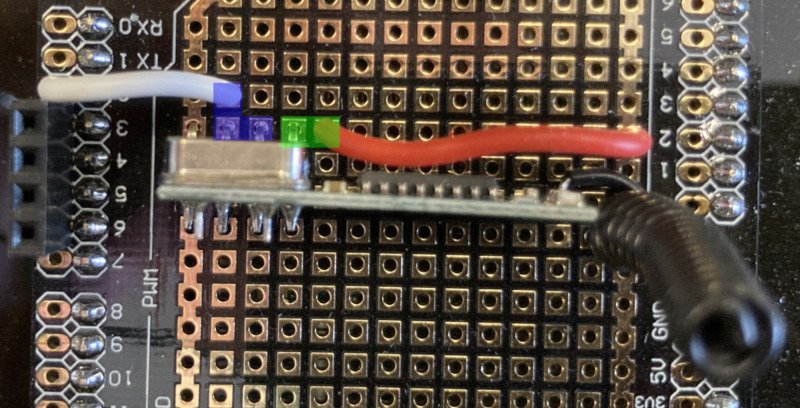
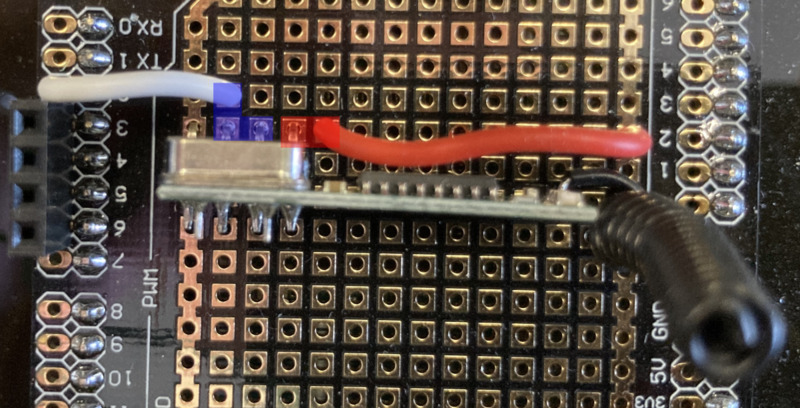
Fix some issues with description

Changed region(s): [[0.3438, 0.2647, 0.4375, 0.3824]]

diff --git a/hardware/README.md b/hardware/README.md
@@ -104,7 +104,8 @@ after the components have been installed and tested!
    2. Connect the ground pin of the RF receiver to the ground line on the proto shield.
    3. Connect the `Data` pin of the RF receiver to pin `2` on the proto shield: This is interrupt 0.    
       [![RF receiver](../images/rf_connections_small.jpeg)](../images/rf_connections.jpeg)     
-      Note that the blue and green boxes show connections underneath the proto shield
+      Note that the blue (data) and red (5V) boxes show connections made on the bottom of the proto shield. 
+      The ground connection (leftmost) is directly connected to the ground line on the proto shield.
 5. Solder all the  LED cathodes together and add a wire that can plug into the proto shield (see image below).
 6. Solder all the grounds of the BNC connectors together and add a wire that can plug into the proto shield (see image below).
 7. Solder DB-9 pin 9 to the ground line on the proto shield (see image below).
